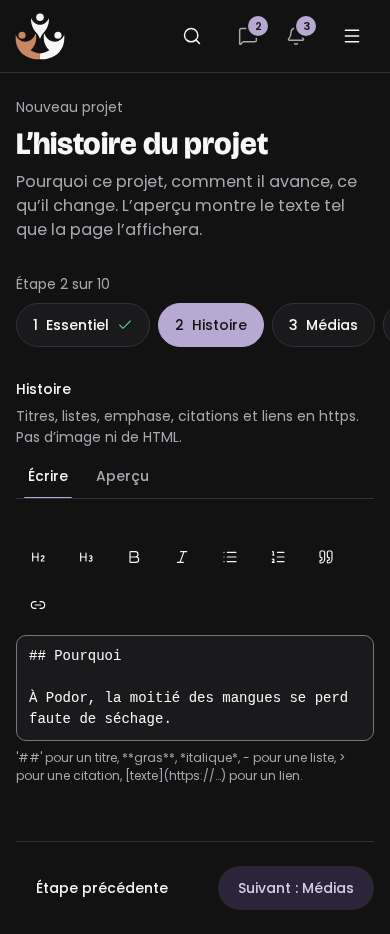
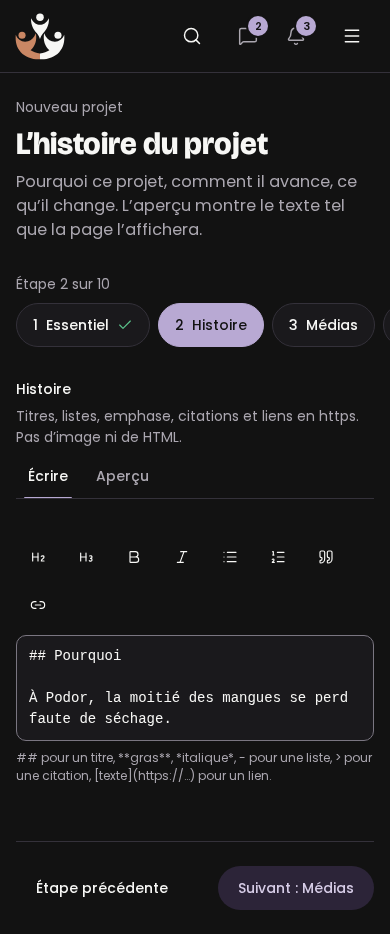
fix(web): quote only the braces and tags of a message
Outside a plural branch, # and | are plain text for ICU and an apostrophe before them stays in
the text: the help of the story editor showed '##'. Braces and tags only are quoted; a test
compiles the result back to the source text.

Changed region(s): [[0.0308, 0.8073, 0.9538, 0.8383]]

diff --git a/apps/web/src/lib/i18n/messages.spec.ts b/apps/web/src/lib/i18n/messages.spec.ts
@@ -1,4 +1,5 @@
 import { createTranslator } from 'next-intl';
+import compile from 'icu-minify/compile';
 import { describe, expect, it } from 'vitest';
 import { CLIENT_MESSAGES, clientMessages, messagesFor, pickMessages, toIcu } from './messages';
 
@@ -8,9 +9,10 @@ describe('messages', () => {
   });
 
   it('quotes the ICU syntax characters of plain text', () => {
-    expect(toIcu("l'api {ok} <b> #1")).toBe("l''api '{'ok'}' '<'b'>' '#'1");
-    // A run of them is quoted at once, never as `'#''#'` (an escaped quote in the middle).
-    expect(toIcu('## pour un titre')).toBe("'##' pour un titre");
+    expect(toIcu("l'api {ok} <b> #1")).toBe("l''api '{'ok'}' '<'b'>' #1");
+    // `#` and `|` are plain text outside a plural: compiled, the text comes back unchanged.
+    const help = '## pour un titre, > pour une citation, a | b';
+    expect(compile(toIcu(help))).toBe(help);
     // A pair of tags is a rich tag of next-intl (t.rich), its parameters converted inside.
     expect(toIcu('J’accepte les <link>conditions</link> (version {{version}}).')).toBe(
       'J’accepte les <link>conditions</link> (version {version}).',

diff --git a/apps/web/src/lib/i18n/messages.ts b/apps/web/src/lib/i18n/messages.ts
@@ -229,8 +229,10 @@ function parameters(text: string): string {
 }
 
 function quote(literal: string): string {
-  // A run of syntax characters is quoted at once: `'#''#'` would read as `#'#` (`''` is a quote).
-  return literal.replace(/'/g, "''").replace(/[{}<>#|]+/g, (run) => `'${run}'`);
+  // Braces and tags only: `#` is syntax inside a plural branch alone, and an apostrophe before a
+  // character that is not syntax stays in the text (`'#'` would show its quotes). A run is quoted
+  // at once: `'{''}'` would read as `{'}` (`''` is a quote).
+  return literal.replace(/'/g, "''").replace(/[{}<>]+/g, (run) => `'${run}'`);
 }
 
 /**
